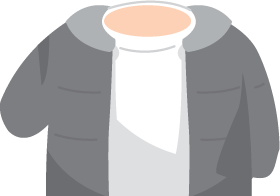
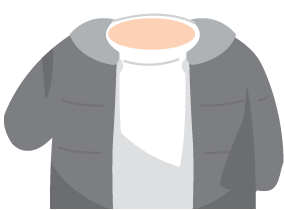
modify animation

diff --git a/src/App.css b/src/App.css
@@ -29,6 +29,11 @@ green-dark: ;
   height: 360px;
   margin-top: 40px;
   background-color: #78C9D7;
+  overflow: hidden;
+}
+
+#main-animation {
+  transform: scale(1.2);
 }
 
 #main-animation,
@@ -203,6 +208,24 @@ green-dark: ;
   background-color: #fcca1d;
   color: #fff;
   transition: all .1s ease-in-out;
+}
+
+#quiz-yes {
+  border: 3px #b2d12c solid;
+}
+
+#quiz-yes:hover,
+#quiz-yes:active {
+  background-color: #b2d12c;
+}
+
+#quiz-no {
+  border: 3px #f0895d solid;
+}
+
+#quiz-no:hover,
+#quiz-no:active {
+  background-color: #f0895d;
 }
 
 .progress-bar {

diff --git a/src/index.js b/src/index.js
@@ -25,13 +25,13 @@ for (var i = 0; i < 43; i++) {
   images.push('images/home-images/img_'+i+'.png');
 }
 
-for (var i = 0; i < 18; i++) {
-  images.push('images/tone-images/img_'+i+'.png');
+for (var j = 0; j < 18; j++) {
+  images.push('images/tone-images/img_'+j+'.png');
 }
 
 //quiz
-for (var j = 1; j < 4; j++) {
-  images.push('images/quiz-images/q'+j+'.png');
+for (var k = 1; k < 4; k++) {
+  images.push('images/quiz-images/q'+k+'.png');
 }
 
 //results
